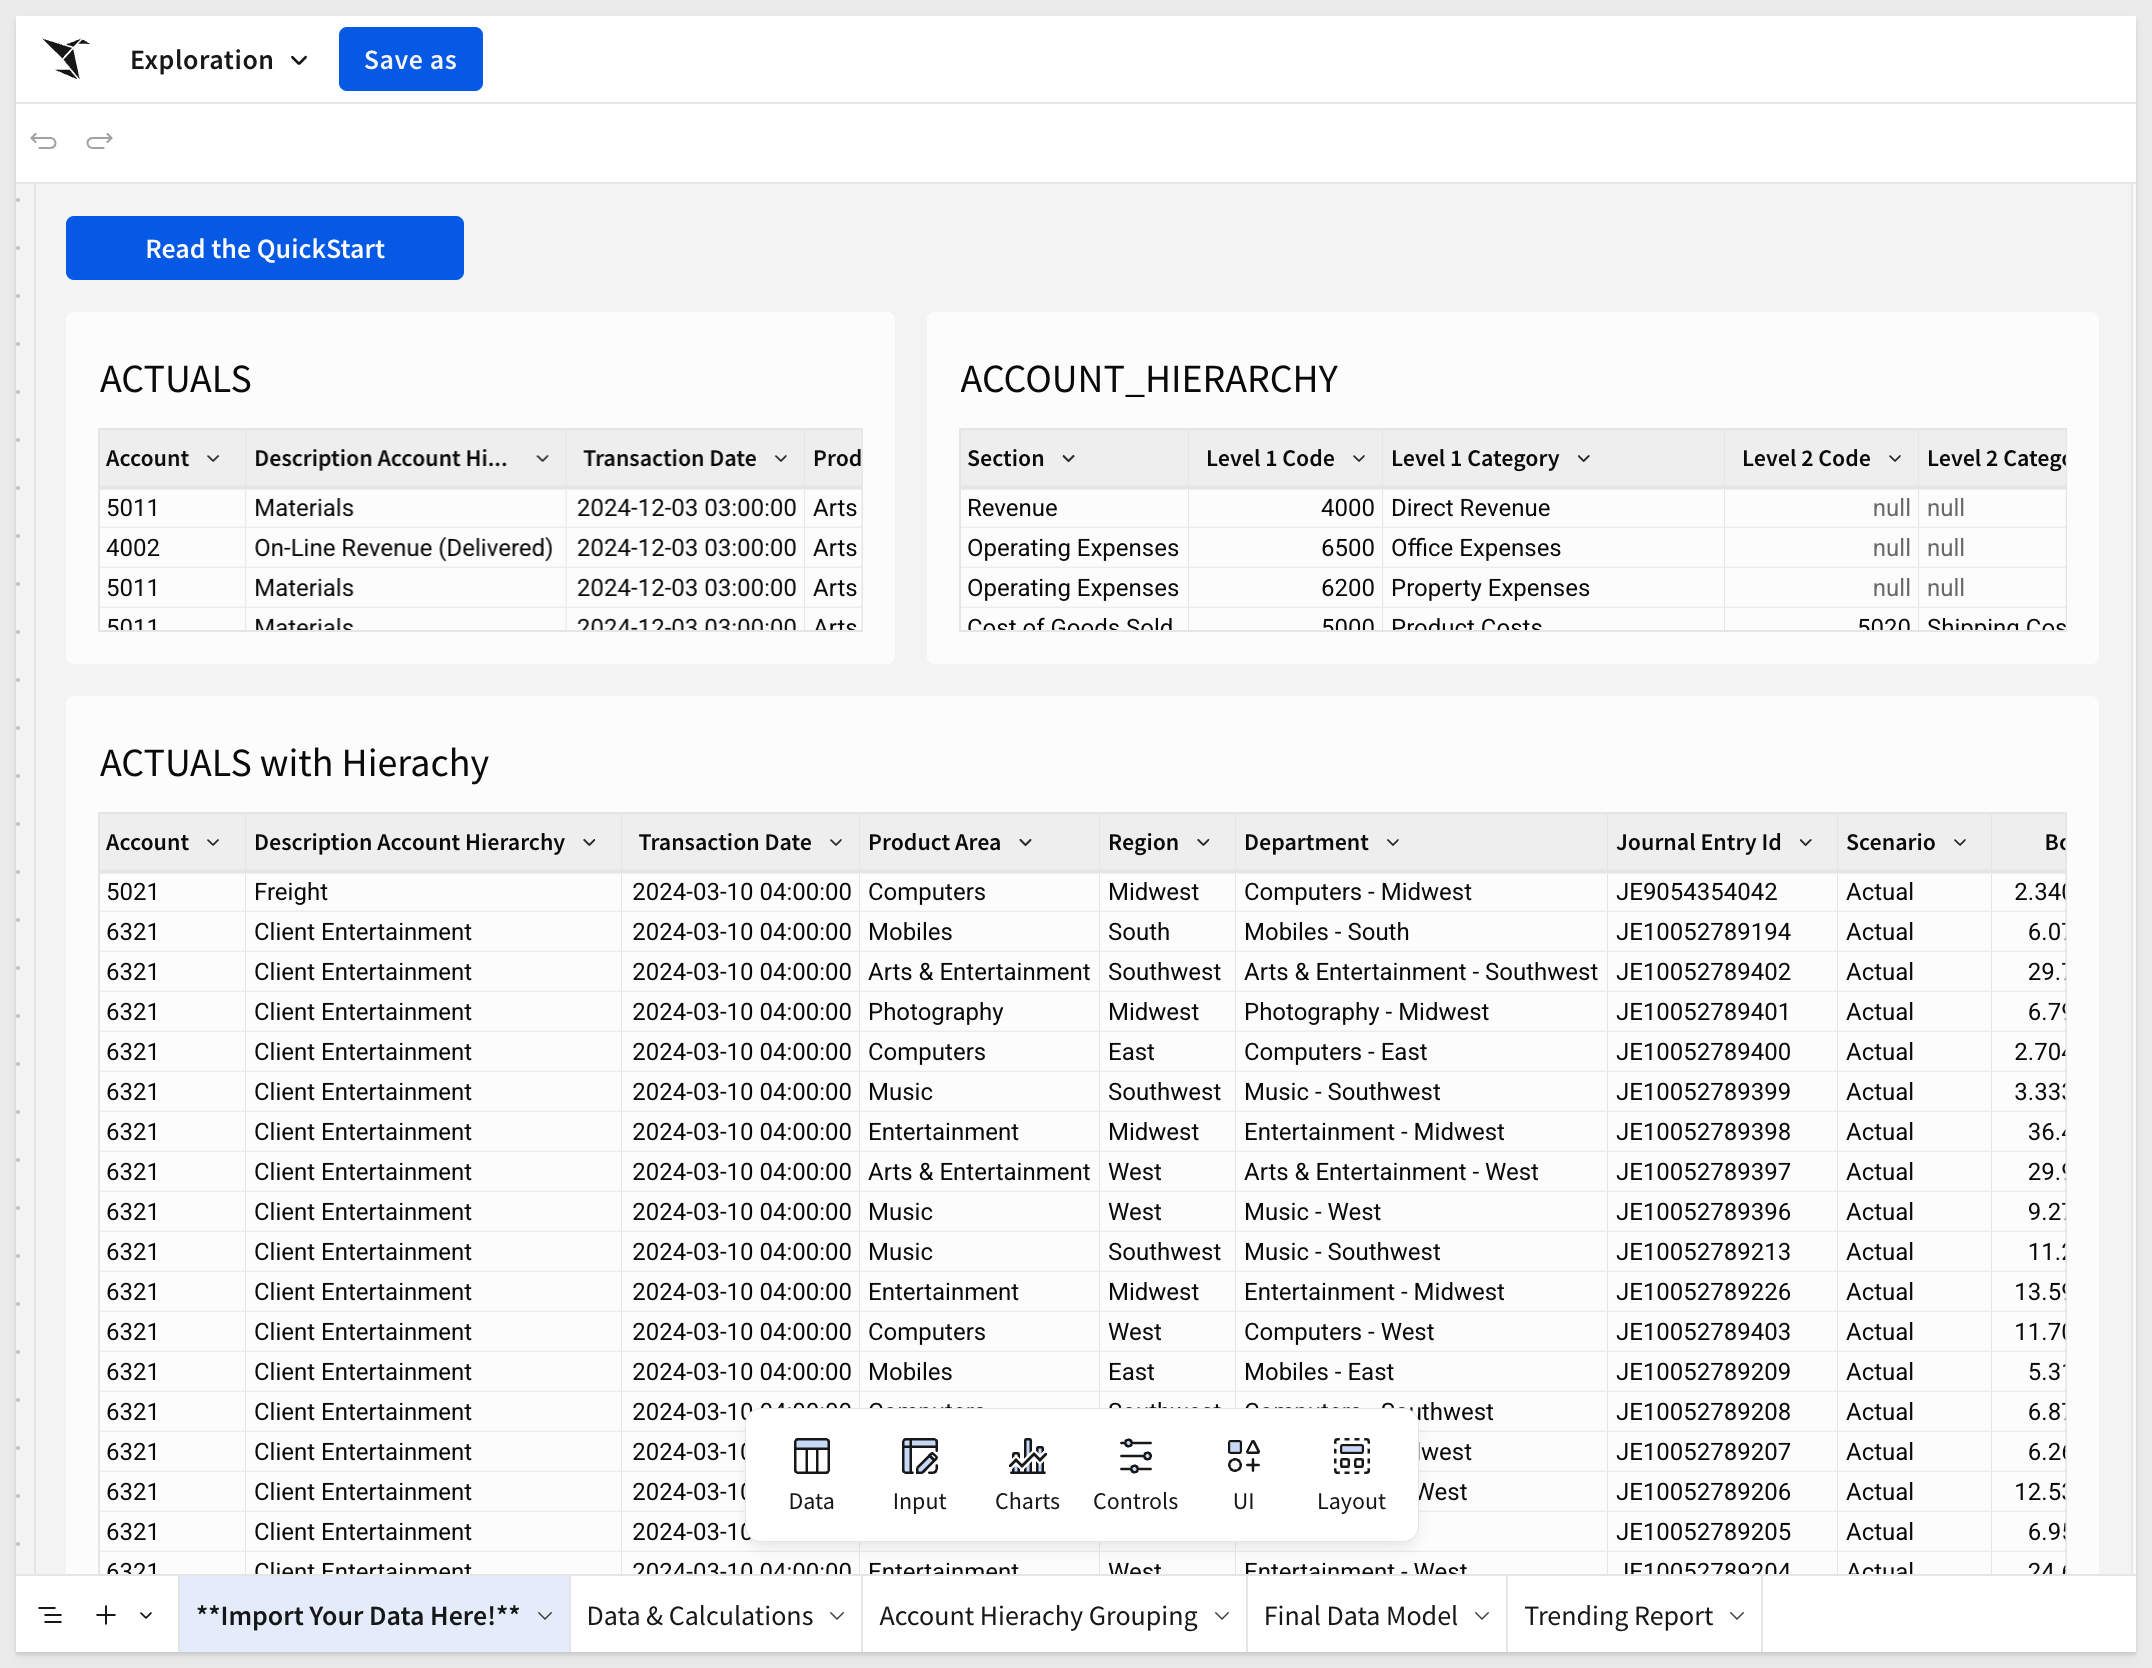
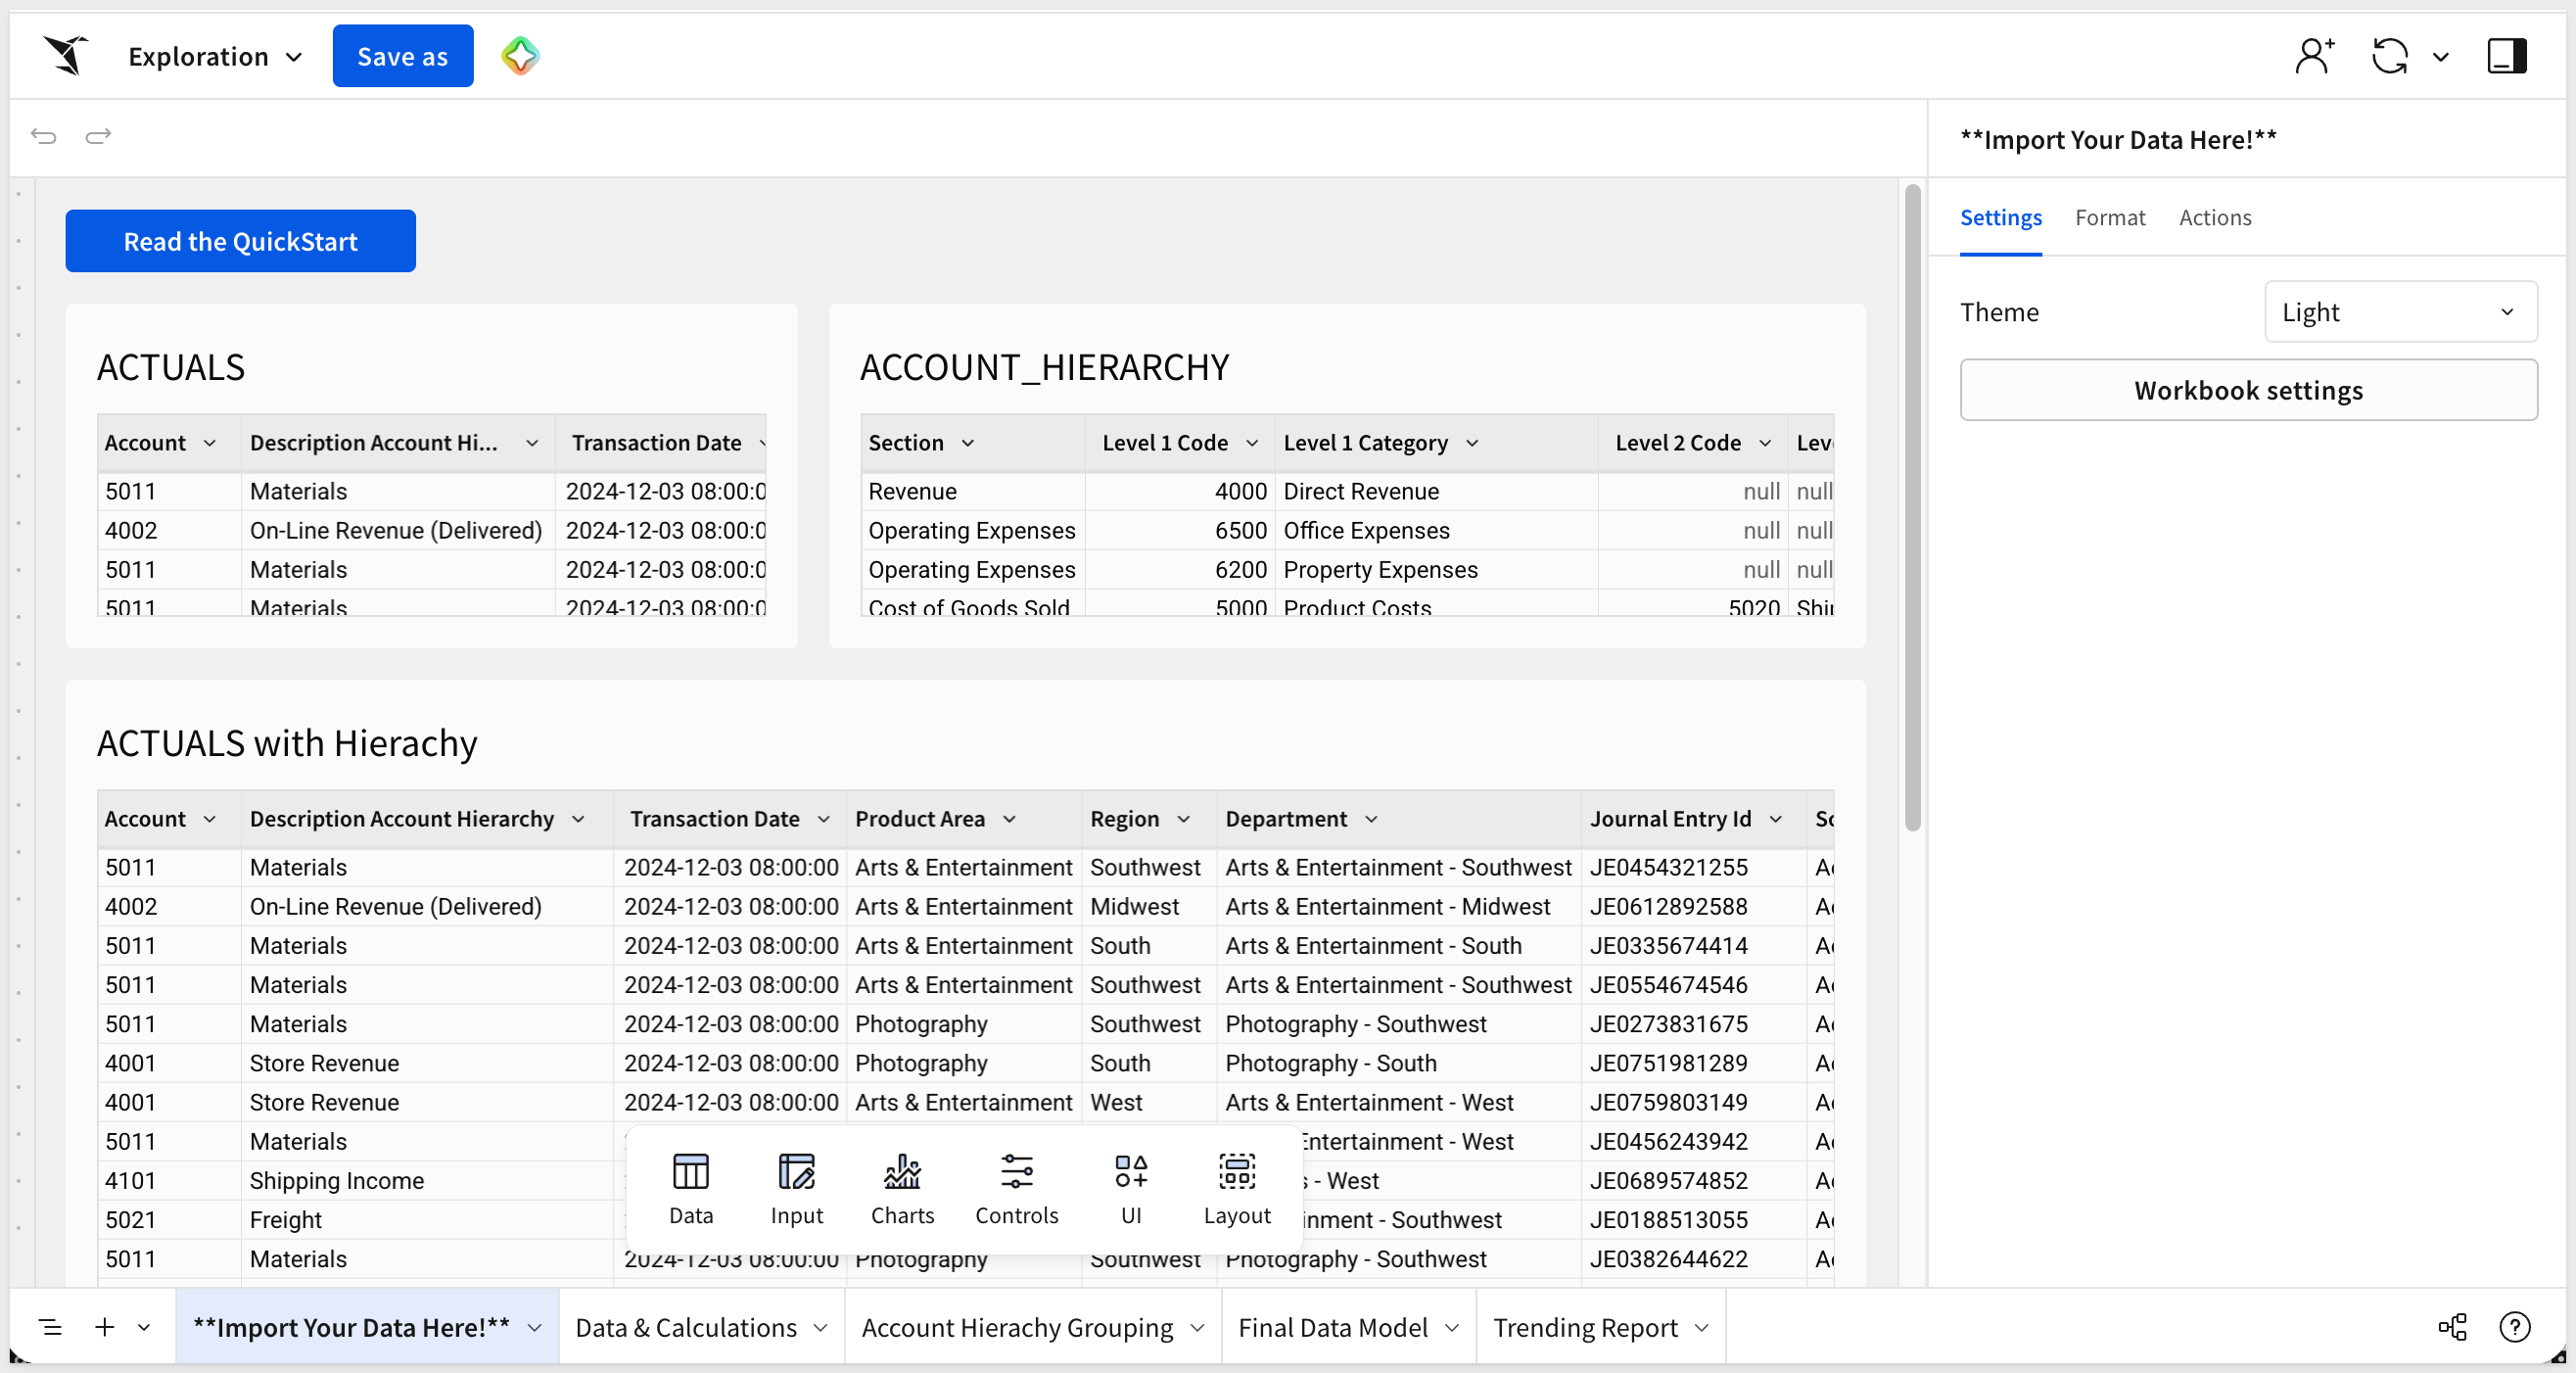
template-adjustments

diff --git a/site/sigmaguides/src/embedding_plugin_useage_01_dashboard_builder/embedding_plugin_useage_01_dashboard_builder.md b/site/sigmaguides/src/embedding_plugin_useage_01_dashboard_builder/embedding_plugin_useage_01_dashboard_builder.md
@@ -74,32 +74,48 @@ Duration: 5
 
 We need to prepare a workbook that allows users to select from a small set of curated content (charts, KPIs, tables, etc.) to create their own custom dashboard. This workbook will be embedded into a host application later. 
 
+### Template
+
 To make this process easier, we have created a [template](https://help.sigmacomputing.com/docs/create-and-edit-workbook-templates) that has a few KPIs preconfigured already.
 
-Return to the Sigma homepage and click `Templates`. Click to select the `Dashboard Builder QuickStart` template:
+<aside class="negative">
+<strong>NOTE:</strong><br> The template is available by direct link only and not listed in the Sigma UI.
 
-<img src="assets/dbb_04.png" width="800"/>
+In order to use the template you must first log onto your Sigma instance and then browse to the url:
 
-This creates a new (unsaved) workbook we can use for our embed. Let's spend a few moments breaking down the structure:
+<a href="https://app.sigmacomputing.com/template?provider=7d0fc8a6-bf65-47f4-86e6-39eba581fe15&shareId=55af1852-7e92-4f3b-b817-5d87ffaf239c&namespace=production&templateId=62aeb36d-ccfc-48ad-8344-1b26d0f0502c">Dashboard Builder Template</a>
+</aside>
 
-<img src="assets/dbb_05.png" width="800"/>
+The template will prompt to `Swap data sources`. Since it uses Sigma provided sample data, the `% Match` should be `100%`.
 
-There are three page tabs (#1 in the screenshot):
+Click `Choose`:
+
+<img src="assets/cdf_00.png" width="600"/>
+
+Once done, the fully-built workbook is presented and we can `Accept` the swap:
+
+<img src="assets/cdf_00a.png" width="800"/>
+
+This creates a new (unsaved) workbook we can use for our embed:
+
+<img src="assets/cdf_00a.png" width="800"/>
+
+Let's spend a few moments breaking down the structure. There are three page tabs.
 
 **Dashboard Builder Page:**<br>
-**#2:** Provides the embedded user three "containers" where elements may be placed. Elements can be selected from any of curated elements provided in the library by clicking an `Edit` button when in `Edit` mode. 
+**1:** Provides the embedded user three "containers" where elements may be placed. Elements can be selected from any of curated elements provided in the library by clicking an `Edit` button when in `Edit` mode. 
 
-Each container has an independent iframe element which is preconfigured for an click action to generate an iframe event when clicked:
+Each container has an independent iframe element which is preconfigured for a click action to generate an iframe event when clicked:
 
 <img src="assets/dbb_13.png" width="800"/>
 
 The action sets the nodeID and URL value (each area has a different static value assigned) once a KPI is selected for the selected area, if the nodeID is not empty. 
 
-**3:** The controls are shown on the Dashboard Builder page only so that we can see the values change as we make changes.
+**2:** The controls are shown on the Dashboard Builder page only so that we can see the values change as we make changes.
 
 In order for the host application to know which control and "viz / container" is configured for which element, it needs to be able to construct the proper combination of URL, NodeID and most recent Explore key for each element the user has selected.
 
-Storing the values in controls allows the dashboard to be changed by the user at any time, without effecting other users. 
+Storing the values in controls allows the dashboard to be changed by the user at any time, without affecting other users. 
 
 Once the user has saved a bookmark, the configuration data is written to a local JSON database. 
 
@@ -109,14 +125,14 @@ Once the user has saved a bookmark, the configuration data is written to a local
 
 **4:** A toggle control to allow the user to place the workbook into edit mode and select from the library. 
 
-If we click `Edit`, the modal appears, and displays the three KPI that are curated for us on the `Library` page:
+If we click `Edit`, the modal appears, and displays the three KPIs that are curated for us on the `Library` page:
 
 <img src="assets/dbb_07.png" width="800"/>
 
 **Library Page:**<br>
-Houses the curated elements that users can select from. We have pre-build three KPI for the QuickStart and included them in the template.
+Houses the curated elements that users can select from. We have pre-built three KPIs for the QuickStart and included them in the template.
 
-Looking at the actions for the `Revenue` KPI, we can see that when it is clicked, the `vizEmbedUrlControl` on the `Dashboard Builder` page is updated. This allow Sigma to know which KPI was selected by the user:
+Looking at the actions for the `Revenue` KPI, we can see that when it is clicked, the `vizEmbedUrlControl` on the `Dashboard Builder` page is updated. This allows Sigma to know which KPI was selected by the user:
 
 <img src="assets/dbb_08.png" width="800"/>
 
@@ -142,7 +158,7 @@ We will share with the `Embed_Users` team created in the `REST API Usage 01: Get
 ## Register Plugin in Sigma
 Duration: 5
 
-To keep this simple. we will use a compiled version of the Dashboard Builder plugin code in a hosted environment. This means all we have to do is configure a plugin in Sigma and provide the URL's for production and development.
+To keep this simple, we will use a compiled version of the Dashboard Builder plugin code in a hosted environment. This means all we have to do is configure a plugin in Sigma and provide the URL's for production and development.
 
 <aside class="negative">
 <strong>NOTE:</strong><br> The source code for the plugin is included in a public GitHub repository, so that you can explore it at a later time. 
@@ -341,7 +357,7 @@ Let’s run some quick validation tests to make sure everything works as expecte
 3. The dropdown should stay on `1` and the `Revenue` KPI should be in `Area 1`.
 4. Using the select control, switch between `Original` and `1` - Area 1 should restore correctly.
 
-The rest of the tests are really similar so screenshots are not provided as the workflow and result is really similar to test one.
+The rest of the tests are really similar so screenshots are not provided as the workflow and results are very similar to Test One.
 
 ### Test Two: Dual Area
 1. Starting from the `Original Workbook`, place KPI in `Area 1`
@@ -489,7 +505,7 @@ git pull origin main
 ```
 
 Change directory to the new folder:
-```bash
+```copy-code
 cd plugin_dashboard_builder
 ```
 

diff --git a/site/sigmaguides/src/partners_snowflake_intelligence/partners_snowflake_intelligence.md b/site/sigmaguides/src/partners_snowflake_intelligence/partners_snowflake_intelligence.md
@@ -112,13 +112,13 @@ Click the `Create agent` button.
 <strong>NOTE:</strong><br> Make sure you are using the ACCOUNTADMIN role.
 </aside>
 
-Set the database and schema as shown. the `name` and `display name` to `QUICKSTARTS`:
+Set the database and schema as shown, and set the `name` and `display name` to `QUICKSTARTS`:
 
 <img src="assets/cortex_05.png" width="600"/>
 
  Click `Create agent`.
 
-Once the agent is created, we instruct the agent adopt a persona to help tailor the responses to our sample retail dataset.
+Once the agent is created, we instruct the agent to adopt a persona to help tailor the responses to our sample retail dataset.
 
 Use the prompt:
 ```copy-code
@@ -188,7 +188,7 @@ GRANT ROLE SIGMA_SERVICE_ROLE TO USER SIGMA_SERVICE_USER;
 GRANT USAGE ON WAREHOUSE COMPUTE_WH TO ROLE SIGMA_SERVICE_ROLE;
 ```
 
-After selecting `Run All` the script will run to success (at can take a minute or two to run to completion).
+After selecting `Run All` the script will run to success (it can take a minute or two to run to completion).
 
 Now would be a good time to configure the connection to Snowflake in Sigma. The connection will require key-pair authentication and write-back enabled.
 
@@ -385,15 +385,23 @@ For more information on how to create agents in Snowflake, see [Configure and in
 ## Sigma Template
 Duration: 5
 
-There is a Sigma template we can use to save you the time of building the Sigma workbook yourself, although that is not hard to do either. 
+We have made the final workbook that is created during this QuickStart available as a Sigma Template. This option allows you to read along while having the workbook built for you. The template is not required and the end result is the same if you build it yourself. 
 
-In Sigma, select `Templates`, search for `quickstarts` and select the `Snowflake Intelligence Quickstart` template:
+<aside class="negative">
+<strong>NOTE:</strong><br> The template is available by direct link only and not listed in the Sigma UI.
 
-<img src="assets/cortex_25.png" width="800"/>
+In order to use the template you must first log onto your Sigma instance and then browse to the url:
 
-This will open a pre-configured workbook for us where we can make a few additions and adjustments. Templates can save a lot of time!
+<a href="https://app.sigmacomputing.com/template?provider=7d0fc8a6-bf65-47f4-86e6-39eba581fe15&shareId=55af1852-7e92-4f3b-b817-5d87ffaf239c&namespace=production&templateId=f2bdaa07-62a5-4c8f-9c9b-95f503ab2374">Snowflake Intelligence Template</a>
+</aside>
 
-<img src="assets/cortex_26.png" width="800"/>
+The template will prompt to `Swap data sources`. In this case, we don't need to match to any existing data so just choose the `Sigma Sample Database` and click `Choose`, ignoring the match values:
+
+<img src="assets/cdf_00.png" width="600"/>
+
+Once done, the fully-built workbook is presented and we can save the workbook normally:
+
+<img src="assets/cdf_00a.png" width="800"/>
 
 ### Add an input table
 We want to store all the questions/responses in the warehouse, but the template needs a place to do that. We will use an input table to make that really simple.
@@ -416,7 +424,7 @@ Now click on the `Chat Log Modal` tab and add the `Chat Log` table from `Data` >
 
 <img src="assets/cortex_12.png" width="600"/>
 
-Hide the `Data` page.In this way, users can see the chat log but do not have access to the input table.
+Hide the `Data` page. In this way, users can see the chat log but do not have access to the input table.
 
 ### Action adjustments
 We need to let the workbook actions know about our new input table and stored procedure.
@@ -546,7 +554,7 @@ GRANT SELECT ON TABLE SNOWFLAKE_INTELLIGENCE.AGENTS.BIG_BUYS TO ROLE SIGMA_SERVI
 ### Add custom tool to Agent
 On the `QuickStart` agent (in `EDIT`), select the `Tools` menu and `Add custom tool`. 
 
-Configure a the tool to use the new function and click the `Generate with Cortex` button to let AI populate the `Description`:
+Configure the tool to use the new function and click the `Generate with Cortex` button to let AI populate the `Description`:
 
 <img src="assets/cortex_22.png" width="800"/>
 

diff --git a/site/sigmaguides/src/use_cases_fpna_report_based_on_template/use_cases_fpna_report_based_on_template.md b/site/sigmaguides/src/use_cases_fpna_report_based_on_template/use_cases_fpna_report_based_on_template.md
@@ -1,4 +1,4 @@
-\author: pballai
+author: pballai
 id: use_cases_fpna_report_based_on_template
 summary: use_cases_fpna_report_based_on_template
 categories: use-cases
@@ -141,19 +141,31 @@ The combined dataset—ACTUALS with Hierarchy—is a standard join of the two ta
 ## Setting Up the Template
 Duration: 5
 
-To make this process easier, we have created a [template](https://help.sigmacomputing.com/docs/create-and-edit-workbook-templates) that is mostly configured.
+We have made the final workbook that is created during this QuickStart available as a Sigma Template. This option allows you to read along while having the workbook built for you. 
 
-Return to the Sigma homepage and click `Templates`. Click to select the `Financial Reporting Template Quickstart` template:
+<aside class="negative">
+<strong>NOTE:</strong><br> The template is available by direct link only and not listed in the Sigma UI.
 
-<img src="assets/fpna_36.png" width="800"/>
+In order to use the template you must first log onto your Sigma instance and then browse to the url:
 
-This creates a new (unsaved) workbook for us:
+<a href="https://app.sigmacomputing.com/template?provider=7d0fc8a6-bf65-47f4-86e6-39eba581fe15&shareId=55af1852-7e92-4f3b-b817-5d87ffaf239c&namespace=production&templateId=d75e55f2-3ec3-45d2-b8f4-045cf71d76a7">Financial Reporting Template</a>
+</aside>
+
+The template will prompt to `Swap data sources`. Since it uses Sigma provided sample data, the `% Match` should be `100%`.
+
+Click `Choose`:
+
+<img src="assets/cdf_00.png" width="600"/>
+
+Once done, the fully-built workbook is presented and we can `Accept` the swap and save the workbook normally:
+
+<img src="assets/cdf_00a.png" width="800"/>
+
+This creates a new (unsaved) workbook for us. Click `Save As` and give your new workbook a meaningful name—e.g., `FP&A QuickStart`.
 
 <img src="assets/fpna_37.png" width="800"/>
 
 The template is initially configured with the `Sample Sigma Database`, which should allow for a clean mapping to your own instance.
-
-Click `Save As` and give your new workbook a meaningful name—e.g., `FP&A QuickStart`.
 
 If we open the page tab, `Trending Report` there is `No data`:
 
@@ -188,7 +200,7 @@ Repeat the process for `Input Table 2`, pasting the `12 rows` into the `Manual I
 
 <img src="assets/fpna_09.png" width="800"/>
 
-Now return to the` Trending Report`—you should see data populated in the pivot:
+Now return to the `Trending Report`—you should see data populated in the pivot:
 
 <img src="assets/fpna_10.png" width="800"/>
 

diff --git a/site/sigmaguides/src/functions_popular_functions/functions_popular_functions.md b/site/sigmaguides/src/functions_popular_functions/functions_popular_functions.md
@@ -22,7 +22,25 @@ You'll learn how to categorize values, handle null data, filter and search text,
 ### Template
 We have also made the final workbook that is created during this QuickStart available as a Sigma Template. This option allows you to read along while having the workbook built for you. The template is not required and the end result is the same if you build it yourself. 
 
-<img src="assets/cdf_01a.png" width="500"/>
+<aside class="negative">
+<strong>NOTE:</strong><br> The template is available by direct link only and not listed in the Sigma UI.
+
+In order to use the template you must first log onto your Sigma instance and then browse to the url:
+
+<a href="https://app.sigmacomputing.com/template?provider=7d0fc8a6-bf65-47f4-86e6-39eba581fe15&shareId=55af1852-7e92-4f3b-b817-5d87ffaf239c&namespace=production&templateId=49239f6d-8997-4361-9181-f2c2469f5105">Popular Functions Template</a>
+</aside>
+
+The template will prompt to `Swap data sources`. Since it uses Sigma provided sample data, the `% Match` should be `100%`.
+
+Click `Choose`:
+
+<img src="assets/cdf_00.png" width="600"/>
+
+Once done, the fully-built workbook is presented and we can `Accept` the swap and save the workbook normally:
+
+<img src="assets/cdf_00a.png" width="800"/>
+
+Save the workbook as `Popular Functions QuickStart`.
 
 <aside class="positive">
 <strong>IMPORTANT:</strong><br> Some screens in Sigma may appear slightly different from those shown in QuickStarts. This is because Sigma continuously adds and enhances functionality. Rest assured, Sigma’s intuitive interface ensures that any differences will not prevent you from successfully completing any QuickStart.
@@ -58,6 +76,10 @@ The typical audience for this QuickStart includes users of Excel, common Busines
 
 ## Data Page Setup
 Duration: 5
+
+<aside class="positive">
+<strong>IMPORTANT:</strong><br> If starting from the pre-built template, there is no need to create another workbook. Instead, you can review each function in its final form using the templated workbook.
+</aside>
 
 Log into Sigma, click `Create new` and select `Workbook`.
 
@@ -122,7 +144,7 @@ Column Name:     Formula:
 Order_Size_Fixed BinFixed([Order_Value], 0, 5000, 10)
 ```
 
-This creates 10 equal bins of $100 each: "0-100", "100-200", "200-300", etc.
+This creates 10 equal bins of $500 each: "0-500", "500-1000", "1000-1500", etc.
 
 Format the column as `Number` and remove the decimal places.
 

diff --git a/site/sigmaguides/src/functions_common_date/functions_common_date.md b/site/sigmaguides/src/functions_common_date/functions_common_date.md
@@ -26,14 +26,21 @@ We have also made the final workbook that is created during this QuickStart avai
 
 <aside class="negative">
 <strong>NOTE:</strong><br> The template is available by direct link only and not listed in the Sigma UI.
+
+In order to use the template you must first log onto your Sigma instance and then browse to the url:
+
+<a href="https://app.sigmacomputing.com/template?provider=7d0fc8a6-bf65-47f4-86e6-39eba581fe15&shareId=55af1852-7e92-4f3b-b817-5d87ffaf239c&namespace=production&templateId=a23e87ed-a961-4450-a450-6293cb1dffd2">Common Functions Template</a>
 </aside>
 
-If you prefer to start from the pre-buld template, open this link in a browser, replacing the {org-name} with yours. 
-```copy-code
-https://app.sigmacomputing.com/{org-name}/explore-from-template/1DQJdGQjEFuhjXpzkMGvCr?:showSwapSourceCoachmark
+The template will prompt to `Swap data sources`. Since it uses Sigma provided sample data, the `% Match` should be `100%`.
 
-https://app.sigmacomputing.com/quick-starts-fundamentals/explore-from-template/1Z0pUQQciTprZwMStU8M0j?:showSwapSourceCoachmark
-```
+Click `Choose`:
+
+<img src="assets/cdf_00.png" width="600"/>
+
+Once done, the fully-built workbook is presented and we can `Accept` the swap and save the workbook normally:
+
+<img src="assets/cdf_00a.png" width="800"/>
 
 ### Target Audience
 Sigma builders looking for solutions to date challenges or who just want to learn new date methods.
@@ -264,7 +271,7 @@ The table should now look like this:
 Add a new column next to `Customer Name` and rename it to `First_Order`.
 
 For `First_Order` set the formula to:
-```plaintext
+```copy-code
 Min([Date])
 ```
 
@@ -272,7 +279,7 @@ Min([Date])
 
 Now add four more columns, renaming them and applying the following formulas:
 
-<aside class="negative">
+<aside class="positive">
 <strong>PRO TIP:</strong><br> Use keyboard shortcuts to save time. For example, use "Shift +"  to add a new column.
 </aside>
 
@@ -342,7 +349,7 @@ For more information, see [Join types](https://help.sigmacomputing.com/docs/join
 
 <img src="assets/CDUC18.png" width="800"/>
 
-Click Preview output. Sigma shows the tables lineage. This allows us to see how our table was constructed, which columns are selected and more. We could also join more tables from here:
+Click `Preview output`. Sigma shows the table lineage. This allows us to see how our table was constructed, which columns are selected and more. We could also join more tables from here:
 
 <img src="assets/CDUC18a.png" width="800"/>
 